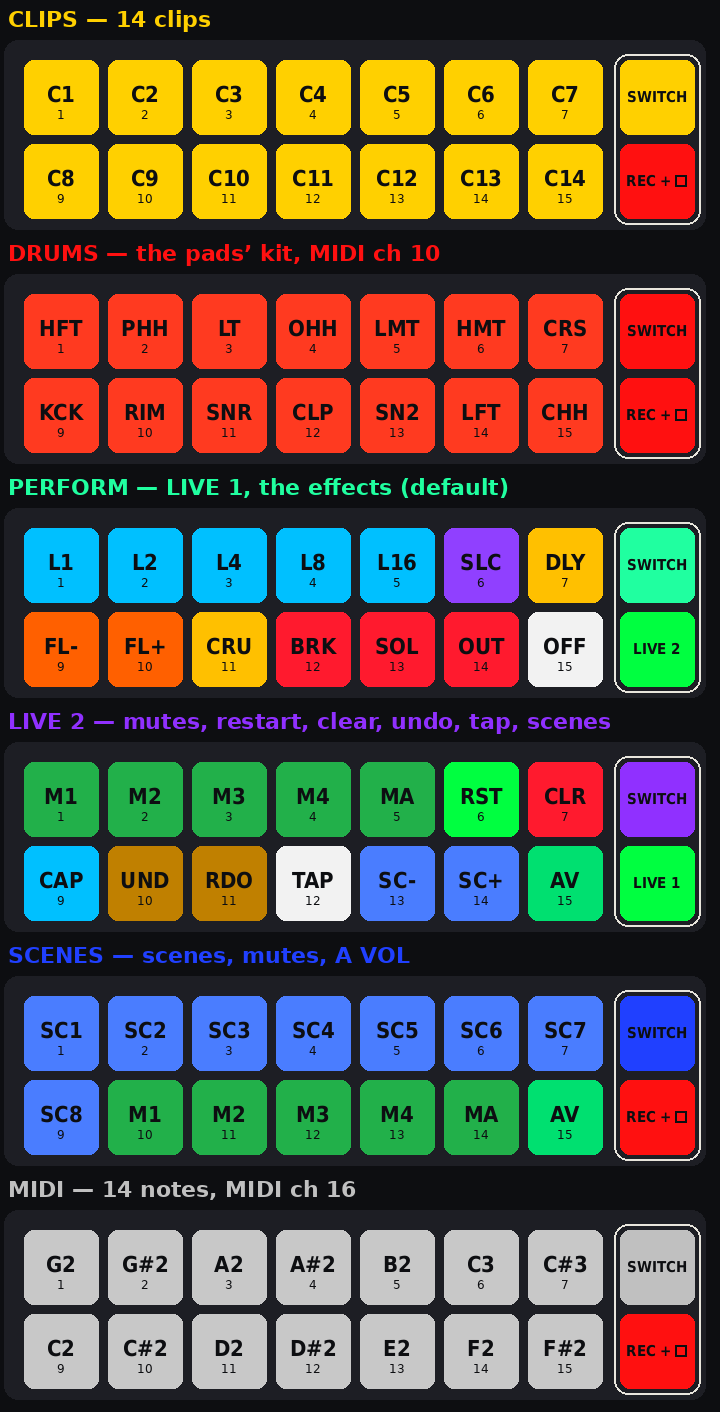
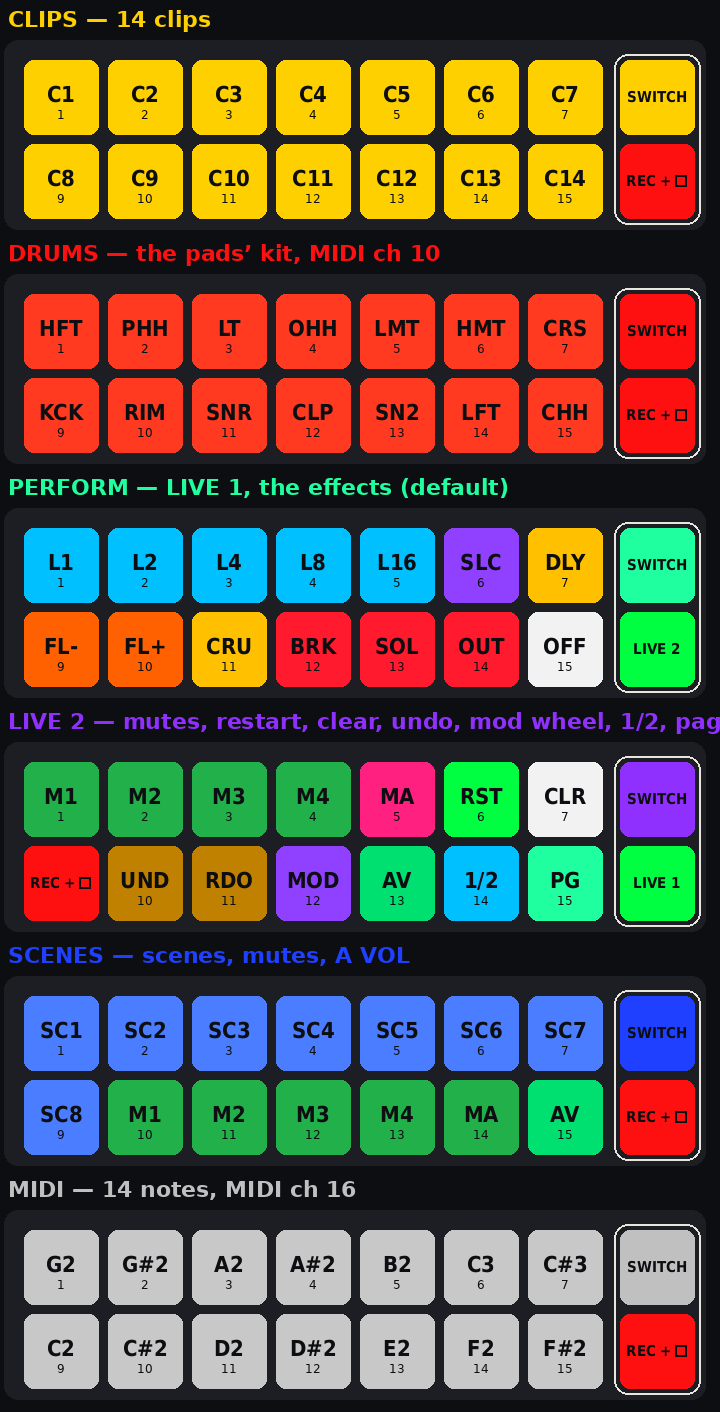
LIVE 2: MOD wheel job, loop 1/2, next page; new colours; map shown after a mode change (CORE c84035f)
Claude-Session: https://claude.ai/code/session_01N9f4HJn3ZZ4mEGDi7YNfQW

Changed region(s): [[0.3667, 0.4986, 1.0, 0.6544], [0.0306, 0.5921, 0.1528, 0.6544]]

diff --git a/targets/smk37/smk37_app.c b/targets/smk37/smk37_app.c
@@ -419,6 +419,7 @@ static struct {
     uint8_t mode_map;                           /* MODE held long: its map shown, letting it go changes nothing */
     uint32_t mode_down_at;                      /* when MODE was pressed */
     uint32_t wave_t0;                           /* the light going round the pads: when it started (top left) */
+    uint32_t map_until;                         /* a mode just taken: its pads' map shown until then (or a touch) */
     uint8_t wave_on;                            /* it is going round (the logo, the help pages) */
     uint32_t pads_quiet_until;                  /* after it: the pads stay off and do nothing until then */
     uint16_t pad_ignored;                       /* pads pressed then: their release does nothing either */
@@ -634,6 +635,15 @@ static void rec_say(int i)                      /* what REC + this pad does: "SA
     clip_say(smk.pad_mode == PADS_SCENES ? "SAVE" : (clips[i].used ? "REPLACE" : "CLIP"), i, "");
 }
 
+/* a pad mode just taken: its map on the screen a few seconds, until anything is touched (smk_input_event) */
+#define MAP_SHOW_MS 4000u
+static void pads_map_show(void)
+{
+    smk.map_until = fm1_millis() + MAP_SHOW_MS;
+    ui.msg_until = smk.map_until;
+    ui.redraw = 1;
+}
+
 /* the set-up pads: MODE (a tap: the next mode; held: the pads' map) and REC (held + a pad: record / store / choose,
  * at once; CLIPS: a clip pad held, then REC: LOOP) */
 static void setup_pad(uint32_t pad, int down)
@@ -650,9 +660,10 @@ static void setup_pad(uint32_t pad, int down)
             ui.redraw = 1;
             return;
         }
-        static const char *const NAME[PAD_MODES] = { "CLIPS", "DRUMS", "LIVE 1", "LIVE 2", "SCENES", "MIDI CH 16" };
+        static const char *const NAME[PAD_MODES] = { "CLIPS", "DRUMS", "LIVE 1 LOOP", "LIVE 2 MUTE", "SCENES", "MIDI CH 16" };
         smk.pad_mode = (uint8_t)((smk.pad_mode + 1u) % PAD_MODES);
         app_say("PADS", NAME[smk.pad_mode]);
+        pads_map_show();
         return;
     }
     if (down) {                                 /* REC */
@@ -678,9 +689,10 @@ static void setup_pad(uint32_t pad, int down)
             }
         }
         if (LIVE_MODE(smk.pad_mode)) {          /* LIVE 1 / LIVE 2: REC is their switch (nothing to record there) */
-            static const char *const LIVE_NAME[2] = { "LIVE 1", "LIVE 2" };
+            static const char *const LIVE_NAME[2] = { "LIVE 1 LOOP", "LIVE 2 MUTE" };
             smk.pad_mode = smk.pad_mode == PADS_PERFORM ? PADS_LIVE2 : PADS_PERFORM;
             app_say("PADS", LIVE_NAME[smk.pad_mode == PADS_LIVE2]);
+            pads_map_show();
             smk.rec_target = -2;
             return;
         }
@@ -704,20 +716,52 @@ static void setup_pad(uint32_t pad, int down)
 }
 
 /* LIVE 2: what is needed at once while playing, one pad each. Top: MUTE 1-4 (the tracks' own mutes, as SELECT + key),
- * MUTE ALL, RESTART, CLEAR TRACK. Bottom: LOOP REC (as EDIT tapped), UNDO, REDO, TAP tempo, the previous / next
- * stored scene, A VOL. REC (bottom right) goes back to LIVE 1. */
-enum { L2_M1, L2_M2, L2_M3, L2_M4, L2_MUTE_ALL, L2_RESTART, L2_CLEAR, L2_CAPTURE, L2_UNDO, L2_REDO, L2_TAP,
-       L2_SCENE_PREV, L2_SCENE_NEXT, L2_AVOL };
+ * MUTE ALL, RESTART, CLEAR TRACK. Bottom: LOOP REC (as EDIT tapped), UNDO, REDO, MOD (what the mod wheel does: MORPH,
+ * FILTER, DELAY, CRUSH, DRIVE, PAN of the selected track, in turn), A VOL, 1/2 (the selected track's loop half as
+ * long: its first half again; ENV undoes it), PAGE (the knobs' next page, as FX tapped, in that page's colour). REC
+ * (bottom right) goes back to LIVE 1. */
+enum { L2_M1, L2_M2, L2_M3, L2_M4, L2_MUTE_ALL, L2_RESTART, L2_CLEAR, L2_CAPTURE, L2_UNDO, L2_REDO, L2_MOD,
+       L2_AVOL, L2_HALVE, L2_PAGE };
 
-static int live2_scene(int dir)                 /* the next stored scene from the last one, -1 none */
+/* MOD: what the mod wheel does, in turn (the CONTROL MAP's mod wheel slot); its pad shows it in its colour */
+static const struct { uint8_t target; uint32_t rgb; const char *name; } MOD_WHEEL[] = {
+    { MAP_MORPH, 0x9030FF, "MORPH" }, { MAP_FILTER, 0xFF6000, "FILTER" }, { MAP_DELAY, 0xFFC000, "DELAY" },
+    { MAP_CRUSH, 0xFF2080, "CRUSH" }, { MAP_DRIVE, 0xFF1010, "DRIVE" }, { MAP_PAN, 0x00C0FF, "PAN" },
+};
+#define MOD_WHEEL_N (sizeof MOD_WHEEL / sizeof MOD_WHEEL[0])
+
+static int mod_wheel_now(void)                  /* its place in MOD_WHEEL, -1: something else (set in MAP CONTROL) */
 {
-    int from = mirror.scene_last >= 0 ? mirror.scene_last : (dir > 0 ? -1 : 0);
-    for (int n = 1; n <= 8; n++) {
-        int s = ((from + dir * n) % 8 + 8) % 8;
-        if (live.scene[s].valid)
-            return s;
-    }
+    for (uint32_t k = 0; k < MOD_WHEEL_N; k++)
+        if (cmap.target[MAP_MOD] == MOD_WHEEL[k].target)
+            return (int)k;
     return -1;
+}
+
+static void mod_wheel_next(void)
+{
+    uint32_t k = (uint32_t)(mod_wheel_now() + 1) % MOD_WHEEL_N;
+    map_retarget(MAP_MOD, MOD_WHEEL[k].target);
+    mark_dirty();
+    app_say("MOD WHEEL", MOD_WHEEL[k].name);
+}
+
+/* the knob pages' colours, as the screen shows them (ui_draw.c PAGE_COLOUR) */
+static const uint32_t PAGE_RGB[PAGE_COUNT] = { 0xC0C0C0, 0x00C0FF, 0x20FFA0, 0xFF2080, 0x9030FF, 0xFF1010, 0xFF6000 };
+
+static void live2_halve(void)
+{
+    uint32_t len = live.track[mirror.track].pat.length;
+    if (ui.on_a || !live.track[mirror.track].pat.count) {
+        app_say("1/2", ui.on_a ? "PICK A TRACK" : "NO LOOP");
+        return;
+    }
+    if (len / 2u < OLS_PPQN) {
+        app_say("1/2", "ONE BEAT ALREADY");
+        return;
+    }
+    send_live(LIVE_LENGTH, 0, (uint16_t)(len / 2u), 0.0f, mirror.track);
+    say_undo("LOOP 1/2");
 }
 
 static void live2_pad(int i)
@@ -749,51 +793,58 @@ static void live2_pad(int i)
     case L2_REDO:
         button_pressed(B_LFO, ui.buttons);
         break;
-    case L2_TAP:
-        send_live(LIVE_TAP, 0, 0, 0.0f, 0);
-        app_say("TAP", "TEMPO");
+    case L2_MOD:
+        mod_wheel_next();
         break;
-    case L2_SCENE_PREV: case L2_SCENE_NEXT: {
-        int s = live2_scene(i == L2_SCENE_NEXT ? 1 : -1);
-        if (s < 0)
-            app_say("SCENES", "NONE STORED");
-        else
-            scene_key(s);
+    case L2_HALVE:
+        live2_halve();
         break;
-    }
-    default:
+    case L2_PAGE:
+        ui.pages_used = 0;
+        pages_released();                       /* as FX tapped: the knobs' next page */
+        app_say("PAGE", PAGE_NAME[set.page]);
+        break;
+    case L2_AVOL:
         avol_key();
+        break;
+    default:
         break;
     }
 }
 
+static uint32_t dim(uint32_t rgb, uint32_t level);
 static uint32_t live2_colour(int i, int held)
 {
-    if (i <= L2_M4)                             /* the mutes: as in SCENES */
-        return live.track[i].mute ? 0x400000 : (i == mirror.track && !ui.on_a ? 0x8060FF : 0x08A008);
+    if (i <= L2_M4)                             /* the mutes: green playing (the selected one brighter), red out */
+        return live.track[i].mute ? 0x400000 : (i == mirror.track && !ui.on_a ? 0x20E020 : 0x087008);
     switch (i) {
     case L2_MUTE_ALL: {
         int all_out = 1;
         for (uint32_t k = 0; k < TRACKS; k++)
             all_out &= live.track[k].mute != 0;
-        return all_out ? ((fm1_millis() / 125u) & 1u ? 0xFF0010 : 0x100000) : 0x200040;
+        return all_out ? ((fm1_millis() / 125u) & 1u ? 0xFF0010 : 0x100000) : (held ? 0xFF2080 : 0x401020);   /* pink */
     }
     case L2_RESTART:
         return held ? 0x00FF40 : 0x00300C;
-    case L2_CLEAR:
-        return held ? 0xFF0000 : 0x300000;
-    case L2_CAPTURE:                            /* LOOP REC armed / taking: blinks fast */
-        return ui.cap_armed ? ((fm1_millis() / 125u) & 1u ? 0x00C0FF : 0x001018) : (held ? 0x00C0FF : 0x00141C);
+    case L2_CLEAR:                              /* white */
+        return held ? 0xFFFFFF : 0x303030;
+    case L2_CAPTURE:                            /* LOOP REC: red; armed / taking: blinking red; held: mint */
+        if (held)
+            return 0x20FFA0;
+        return ui.cap_armed ? ((fm1_millis() / 125u) & 1u ? 0xFF0000 : 0x200000) : 0x300000;
     case L2_UNDO:
         return ols_live_can_undo_track(&live, mirror.track) ? 0xC08000 : 0x100800;
     case L2_REDO:
         return ols_live_can_redo_track(&live, mirror.track) ? 0xC08000 : 0x100800;
-    case L2_TAP: {                              /* the beat */
-        uint32_t t = live.clock.running ? live.clock.tick : live.clock.free_tick;
-        return held ? 0xFFFFFF : (t % OLS_PPQN < OLS_PPQN / 8u ? 0x808080 : 0x101010);
+    case L2_MOD: {                              /* in the colour of what the mod wheel does */
+        int k = mod_wheel_now();
+        uint32_t c = k < 0 ? 0x808080 : MOD_WHEEL[k].rgb;
+        return held ? c : dim(c, 70u);
     }
-    case L2_SCENE_PREV: case L2_SCENE_NEXT:
-        return live2_scene(1) < 0 ? 0x020210 : (held ? 0x60A0FF : 0x0828A0);
+    case L2_HALVE:                              /* cyan, as the loops */
+        return held ? 0x00C0FF : (live.track[mirror.track].pat.count && !ui.on_a ? 0x003040 : 0x000810);
+    case L2_PAGE:                               /* the knobs' page now, in its colour */
+        return held ? PAGE_RGB[set.page % PAGE_COUNT] : dim(PAGE_RGB[set.page % PAGE_COUNT], 70u);
     default:
         return avol.on ? 0x00FF60 : 0x002810;   /* A VOL: lit green while it runs */
     }
@@ -1179,6 +1230,11 @@ static void button_event(uint32_t id, int down)
 
 void smk_input_event(unsigned kind, unsigned id, int value)
 {
+    if (smk.map_until && value > 0 && kind != SMK_PRESSURE && kind != SMK_FADER) {
+        smk.map_until = 0;                      /* the map of a mode just taken: a touch ends it */
+        ui.msg_until = fm1_millis();
+        ui.redraw = 1;
+    }
     switch (kind) {
     case SMK_KEY:
         key_event(id, value);
@@ -1286,9 +1342,9 @@ static const struct { char name[4]; uint8_t type; } PAD_MAP[PAD_MODES][SMK_PADS]
     },
     {
         { "M1", 8 }, { "M2", 8 }, { "M3", 8 }, { "M4", 8 },
-        { "MA", 8 }, { "RST", 14 }, { "CLR", 2 }, { "SW", 10 },
-        { "CAP", 0 }, { "UND", 15 }, { "RDO", 15 }, { "TAP", 3 },
-        { "SC-", 7 }, { "SC+", 7 }, { "AV", 9 }, { "LV1", 14 },
+        { "MA", 16 }, { "RST", 14 }, { "CLR", 3 }, { "SW", 10 },
+        { "CAP", 11 }, { "UND", 15 }, { "RDO", 15 }, { "MOD", 17 },
+        { "AV", 9 }, { "1/2", 0 }, { "PG", 18 }, { "LV1", 14 },
     },
     {
         { "SC1", 7 }, { "SC2", 7 }, { "SC3", 7 }, { "SC4", 7 },
@@ -1309,19 +1365,24 @@ static const struct { char name[4]; uint8_t type; } PAD_MAP[PAD_MODES][SMK_PADS]
  * for a layer button), each in its colour with its short name, MODE and REC framed on the right */
 static int smk_pad_map(void)
 {
-    if (!((smk.pad_down >> PAD_MODE) & 1u) || smk.mode_used || fm1_millis() - smk.mode_down_at < MODE_MAP_MS)
+    int shown = smk.map_until && (int32_t)(fm1_millis() - smk.map_until) < 0;
+    if (!shown && smk.map_until) {
+        smk.map_until = 0;
+        ui.redraw = 1;
+    }
+    if (!shown && (!((smk.pad_down >> PAD_MODE) & 1u) || smk.mode_used || fm1_millis() - smk.mode_down_at < MODE_MAP_MS))
         return 0;
-    static const uint32_t TYPE_RGB[16] = { 0x00C0FF, 0xFF6000, 0xFF1A2E, 0xF2F2F2, 0xFFD000, 0xFF3A20, 0xC8C8C8,
+    static const uint32_t TYPE_RGB[18] = { 0x00C0FF, 0xFF6000, 0xFF1A2E, 0xF2F2F2, 0xFFD000, 0xFF3A20, 0xC8C8C8,
                                            0x4A7DFF, 0x22B04A, 0x00E070, 0, 0xFF1010, 0x9040FF, 0xFFC000, 0x00FF40,
-                                           0xC08000 };
+                                           0xC08000, 0xFF2080, 0 };   /* ... pink (MUTE ALL), 17: the mod wheel's */
                                                 /* loop, filter, mute, off, clip, drum, MIDI, scene, track, A VOL,
                                                  * (MODE), REC, slicer, sound effect, LIVE switch / restart, undo */
-    if (!smk.mode_map) {
-        static const char *const NAME[PAD_MODES] = { "CLIPS", "DRUMS", "LIVE 1", "LIVE 2", "SCENES", "MIDI CH 16" };
+    if (!smk.mode_map && !shown) {
+        static const char *const NAME[PAD_MODES] = { "CLIPS", "DRUMS", "LIVE 1 LOOP", "LIVE 2 MUTE", "SCENES", "MIDI CH 16" };
         app_say("PADS", NAME[smk.pad_mode]);
         ui.msg_until = plat_ms() + 60000u;      /* (while MODE is held) */
     }
-    smk.mode_map = 1;
+    smk.mode_map = (uint8_t)!shown || ((smk.pad_down >> PAD_MODE) & 1u);
     const int32_t pw = 25, ph = 24, gap = 3, side = 5;
     const int32_t x0 = (240 - (8 * pw + 7 * gap + side)) / 2, y0 = (SCOPE_H - (2 * ph + gap)) / 2;
     cv_begin(240, SCOPE_H, C_BLACK);
@@ -1329,7 +1390,8 @@ static int smk_pad_map(void)
         int32_t col = (int32_t)(p % 8u), row = (int32_t)(p / 8u);
         int32_t x = x0 + col * (pw + gap) + (col == 7 ? side : 0), y = y0 + row * (ph + gap);
         uint8_t t = PAD_MAP[smk.pad_mode][p].type;
-        uint32_t c = t == 10u ? MODE_COLOUR[smk.pad_mode] : (t < 16u ? TYPE_RGB[t] : 0x24252Cu);
+        uint32_t c = t == 10u ? MODE_COLOUR[smk.pad_mode] : (t == 17u ? live2_colour(L2_MOD, 1) : (t == 18u ? live2_colour(L2_PAGE, 1)
+                   : (t < 18u ? TYPE_RGB[t] : 0x24252Cu)));
         cv_rect(x, y, pw, ph, RGB((c >> 16) & 255u, (c >> 8) & 255u, c & 255u));
         const char *n = PAD_MAP[smk.pad_mode][p].name;
         cv_text(x + (pw - text_w(&FONT_XS, n)) / 2, y + (ph - (int32_t)FONT_XS.h) / 2, &FONT_XS, n, C_BLACK);

diff --git a/targets/smk37/tests/host_test.c b/targets/smk37/tests/host_test.c
@@ -338,6 +338,12 @@ int main(void)
      * right, green) switches LIVE 1 <-> LIVE 2 */
     tap(SMK_BUTTON, SMK_B_PAD_STEP);
     CHECK(smk.pad_mode == PADS_LIVE2 && pad_rgb[PAD_MODE] == dim(0x9030FF, 110u), "PAD/STEP: LIVE 2, violet");
+    CHECK(smk.map_until != 0, "a mode taken: its pads' map shows on the screen");
+    {
+        uint8_t page = set.page;
+        tap(SMK_PAD, 14);                               /* PAGE: the knobs' next page, as FX tapped */
+        CHECK(set.page != page, "LIVE 2 PAGE: the knobs' next page");
+    }
     CHECK(pad_rgb[PAD_REC] == 0x00601A, "REC is the LIVE switch, green");
     tap(SMK_PAD, 0);
     run_ms(50);
@@ -345,6 +351,12 @@ int main(void)
     tap(SMK_PAD, 0);
     run_ms(50);
     CHECK(!live.track[0].mute, "...and back");
+    {
+        uint8_t was = cmap.target[MAP_MOD];
+        tap(SMK_PAD, 11);                               /* MOD: what the mod wheel does, in turn */
+        CHECK(cmap.target[MAP_MOD] != was && mod_wheel_now() >= 0, "LIVE 2 MOD: the mod wheel does the next thing");
+        CHECK(smk.map_until == 0, "...and a touch put the map away");
+    }
     tap(SMK_PAD, PAD_REC);
     CHECK(smk.pad_mode == PADS_PERFORM, "REC: back to LIVE 1");
     tap(SMK_PAD, PAD_REC);

diff --git a/docs/_FR/02-le-smk37.md b/docs/_FR/02-le-smk37.md
@@ -58,10 +58,10 @@ Si plus rien ne répond, l'atelier web de M-VAVE sait réinstaller un firmware d
 |---|---|
 | **37 touches** (Do3 à Do6) | jouent la piste sélectionnée, avec la vélocité ; OCT− / OCT+ décalent la ligne sélectionnée d'une octave (T1..T4 et A chacune la leur ; un son USER ramène son octave) |
 | touches blanches + un bouton de couche tenu | les 16 « touches de couche » du FM-1 (GLO scènes, ARP Creative, SELECT pistes, SEQ effets, SAVE sons) : 1re touche blanche = 1. Sur une piste, ARP / SEQ / GLO + touche blanche affiche le geste : relâcher ARP / SEQ / GLO d'abord l'applique (menthe), la touche d'abord l'annule |
-| **16 pads** : 2 pads de réglage à droite, 14 pads de jeu (pendant le logo et l'aide : une lumière fait le tour dans le sens horaire, un tour en 1,6 s, suivie d'une traîne qui s'éteint sur les trois pads derrière, sa couleur glissant sur la roue : rouge, orange, jaune, menthe, bleu, violet ; elle part du pad en haut à gauche ; un pad appuyé à ce moment arrête le logo et l'aide, sans rien faire d'autre ; puis tous les pads restent éteints une demi-seconde avant leur mode) | en haut à droite **MODE** : tenu seul un instant, la **carte des pads** s'affiche à l'écran (comme le clavier pour un bouton de couche) ; une tape fait le tour **CLIPS** (jaune) → **DRUMS** (rouge) → **LIVE 1** (PERFORM, menthe, la couleur du live) → **LIVE 2** (violet) → **SCÈNES** (bleu) → **MIDI** (blanc) ; le pad prend la couleur du mode. En bas à droite **REC** : REC + un pad agit **tout de suite** (un clip armé, une scène sauvée, un kit choisi) ; en LIVE 1 et LIVE 2 c'est leur **bascule** à la place (verte) : LIVE 1 ↔ LIVE 2. **PAD/STEP** fait aussi le tour des modes (voyant éteint : PERFORM) |
+| **16 pads** : 2 pads de réglage à droite, 14 pads de jeu (pendant le logo et l'aide : une lumière fait le tour dans le sens horaire, un tour en 1,6 s, suivie d'une traîne qui s'éteint sur les trois pads derrière, sa couleur glissant sur la roue : rouge, orange, jaune, menthe, bleu, violet ; elle part du pad en haut à gauche ; un pad appuyé à ce moment arrête le logo et l'aide, sans rien faire d'autre ; puis tous les pads restent éteints une demi-seconde avant leur mode) | en haut à droite **MODE** : tenu seul un instant, la **carte des pads** s'affiche à l'écran (comme le clavier pour un bouton de couche) ; une tape fait le tour **CLIPS** (jaune) → **DRUMS** (rouge) → **LIVE 1** (PERFORM, menthe, la couleur du live) → **LIVE 2** (violet) → **SCÈNES** (bleu) → **MIDI** (blanc) ; le pad prend la couleur du mode ; le titre le dit (« LIVE 1 LOOP », « LIVE 2 MUTE ») et la carte des pads reste 4 s à l'écran, ou jusqu'à ce qu'on touche quelque chose. En bas à droite **REC** : REC + un pad agit **tout de suite** (un clip armé, une scène sauvée, un kit choisi) ; en LIVE 1 et LIVE 2 c'est leur **bascule** à la place (verte) : LIVE 1 ↔ LIVE 2. **PAD/STEP** fait aussi le tour des modes (voyant éteint : PERFORM) |
 | pads en **CLIPS** | un clip = une phrase jouée sur la ligne choisie (une piste ou A), avec son son. **REC + pad** l'arme tout de suite (le pad clignote rouge toutes les 1/4 s, la ligne passe vert sombre à l'écran) ; la **première note** lance la prise (vert vif qui remplit la ligne, toute la largeur = 4 mesures, le maximum) ; **son pad ou REC** la termine (un autre pad, MODE ou un bouton aussi), son propre pad la termine et la joue. Longueur arrondie au temps, au plus **4 mesures / 48 notes**, 14 clips. **Une tape = SINGLE** : une fois, tout de suite, depuis sa première note. **Le pad encore l'arrête** (une fois ou en boucle). **Le pad tenu, puis REC** = **LOOP** : verrouillé, en boucle, en mesure (clignote vert / violet, une demi-seconde chacun). **REC + un pad plein** : REPLACE (l'ancien reste jusqu'à la première note). **SHIFT + pad** : effacé. Couleurs : éteint = vide, rouge = batterie, vert = acid, rose = son USER, bleu = les autres ; vif = en lecture. Les clips jouent le son actuel de la ligne, ne s'enregistrent pas dans la boucle et ne sont pas sauvés (hors tension : perdus) |
 | pads en **DRUMS** | le **kit de batterie propre aux pads** (pas une piste) : 14 sons, Do2 (grosse caisse) en bas à gauche, comme les boîtes à rythmes ; sortie sur le **canal MIDI 10**. **REC tenu** : les cinq kits sur les cinq premiers pads (tous, même les cachés ; vif = celui des pads) ; REC + pad = ce kit, tout de suite, gardé (SAVE). La pression = un **roulement** calé sur la grille, plus rapide en appuyant plus fort : 1/8, puis 1/16, puis 1/32, un cran toutes les 1/4 s au plus (la pression des pads monte vite : il passait direct à 1/32) ; en relâchant, il ralentit ou s'arrête tout de suite. Pas enregistré dans les boucles |
-| pads en **LIVE 2** (violet) | ce qu'il faut lancer vite en jouant, un pad chacun. En haut : **MUTE 1–4** (les mutes des pistes, comme SELECT + touche : même état), **MUTE ALL**, **RESTART** (toutes les pistes au début), **CLEAR TRACK** (la piste choisie ; ENV l'annule). En bas : **LOOP REC** (comme EDIT tapé ; clignote quand il attend), **UNDO**, **REDO** (ambre quand il y a quelque chose), **TAP** tempo (clignote sur le temps), **SCÈNE −** / **SCÈNE +** (la scène enregistrée précédente / suivante, à la mesure suivante), **A VOL**. Le pad en bas à droite (vert) revient à LIVE 1 |
+| pads en **LIVE 2** (violet) | ce qu'il faut lancer vite en jouant, un pad chacun. En haut : **MUTE 1–4** (les mutes des pistes, comme SELECT + touche : même état), **MUTE ALL**, **RESTART** (toutes les pistes au début), **CLEAR TRACK** (la piste choisie ; ENV l'annule). En bas : **LOOP REC** (comme EDIT tapé ; rouge, rouge clignotant quand il attend, menthe tenu), **UNDO**, **REDO** (ambre quand il y a quelque chose), **MOD** (ce que fait la molette mod, à tour de rôle : MORPH, FILTER, DELAY, CRUSH, DRIVE, PAN de la piste choisie ; le pad dans sa couleur), **A VOL**, **1/2** (la boucle de la piste choisie deux fois plus courte : sa première moitié ; ENV l'annule), **PAGE** (page de boutons suivante, comme FX tapé ; le pad dans la couleur de la page). Le pad en bas à droite (vert) revient à LIVE 1. Couleurs en haut : mutes verts (rouges coupés), MUTE ALL rose, RESTART vert, CLEAR TRACK blanc |
 | pads en **LIVE 1** (PERFORM, par défaut) | 14 effets de jeu groupés par couleur : en haut le temps, boucles 1 mesure à 1/16 (cyan ; une boucle en cours clignote à sa propre longueur, OCT− / OCT+ la changent), SLICER (violet ; la piste choisie, OCT− / OCT+ sa longueur), DELAY (jaune) ; en bas FILTRE fermé / ouvert (orange), CRUSH (jaune), BREAK, SOLO, TOUT COUPÉ (rouge), TOUT ARRÊTER (blanc). DRIVE et DRUMS ONLY restent sur les touches ; LOOP 1/32 par OCT+ depuis 1/16. Tenir = tant que tenu ; tape courte = verrouillé. **Pression** sur un filtre / delay / crush tenu : effleurer = 40 %, appuyer fort = 100 % |
 | pads en **SCÈNES** | rangée du haut + le pad en bas à gauche : scènes 1–8 (à la mesure suivante en lecture ; vif : la dernière, pâle : enregistrée, sombre : vide) ; **REC + pad** (ou SHIFT + pad) la SAUVE (rose) ; puis mute / unmute des pistes 1–4, les quatre (rouge qui clignote vite quand tout est coupé), **A VOL** (vert qui respire pendant qu'il tourne) |
 | pads en **MIDI** | 14 notes depuis Do2 sur le **canal MIDI 16** seulement (USB et prise MIDI OUT), aucun son interne : pour une boîte à rythmes ou un sampler |

diff --git a/docs/_EN/02-the-smk37.md b/docs/_EN/02-the-smk37.md
@@ -56,10 +56,10 @@ answers any more, M-VAVE's web workbench can reinstall a firmware from update mo
 |---|---|
 | **37 keys** (C3 to C6) | play the selected track, with velocity; OCT− / OCT+ shift the selected line an octave (T1..T4 and A each their own; a USER sound brings back its octave) |
 | white keys + a layer button held | the FM-1's 16 "layer keys" (GLO scenes, ARP Creative, SELECT tracks, SEQ effects, SAVE sounds): 1st white key = 1. On a track, ARP / SEQ / GLO + white key names the gesture: let ARP / SEQ / GLO go first to apply it (mint), the key first to give it up |
-| **16 pads**: 2 set-up pads on the right, 14 playing pads (during the logo and the help: a light goes round clockwise, one lap in 1.6 s, with a trail fading on the three pads behind it, its colour flowing round the wheel: red, orange, yellow, mint, blue, violet; it starts on the top left pad; a pad pressed then ends the logo and the help and does nothing else; then every pad stays off half a second before its mode) | top right **MODE**: held alone a moment, the **pads' map** shows on the screen (as the keyboard does for a layer button); a tap goes round **CLIPS** (yellow) → **DRUMS** (red) → **LIVE 1** (PERFORM, mint, the live colour) → **LIVE 2** (violet) → **SCENES** (blue) → **MIDI** (white); the pad shows the mode's colour. Bottom right **REC**: REC + a pad acts **at once** (a clip armed, a scene stored, a kit chosen); in LIVE 1 and LIVE 2 it is their **switch** instead (green): LIVE 1 ↔ LIVE 2. **PAD/STEP** goes round the modes too (LED off: PERFORM) |
+| **16 pads**: 2 set-up pads on the right, 14 playing pads (during the logo and the help: a light goes round clockwise, one lap in 1.6 s, with a trail fading on the three pads behind it, its colour flowing round the wheel: red, orange, yellow, mint, blue, violet; it starts on the top left pad; a pad pressed then ends the logo and the help and does nothing else; then every pad stays off half a second before its mode) | top right **MODE**: held alone a moment, the **pads' map** shows on the screen (as the keyboard does for a layer button); a tap goes round **CLIPS** (yellow) → **DRUMS** (red) → **LIVE 1** (PERFORM, mint, the live colour) → **LIVE 2** (violet) → **SCENES** (blue) → **MIDI** (white); the pad shows the mode's colour; the title says it ("LIVE 1 LOOP", "LIVE 2 MUTE") and the pads' map stays on the screen 4 s, or until anything is touched. Bottom right **REC**: REC + a pad acts **at once** (a clip armed, a scene stored, a kit chosen); in LIVE 1 and LIVE 2 it is their **switch** instead (green): LIVE 1 ↔ LIVE 2. **PAD/STEP** goes round the modes too (LED off: PERFORM) |
 | pads in **CLIPS** | a clip = a phrase played on the selected line (a track or A), with its sound. **REC + pad** arms it at once (pad blinking red every 1/4 s, the line goes dark green on screen); the **first note** starts the take (bright green filling the line, the full width = 4 bars, the longest); **its pad or REC** ends it (any other pad, MODE or a button too), its own pad ends it and plays it. Length rounded to the beat, at most **4 bars / 48 notes**, 14 clips. **A tap = SINGLE**: once, now, from its first note. **The pad again stops it** (once or looping). **The pad held, then REC** = **LOOP**: latched, looping, in time (blinking green / violet, half a second each). **REC + a full pad**: REPLACE (the old one stays until the first note). **SHIFT + pad**: deleted. Colours: off = empty, red = drums, green = acid, pink = USER sound, blue = the others; bright = playing. Clips play on the line's sound as it is now, are not recorded in the loop, and are not saved (power off: gone) |
 | pads in **DRUMS** | the pads' **own drum kit** (not a track): 14 sounds, C2 (kick) on the bottom left, as drum machines; out on **MIDI channel 10**. **REC held**: the five kits on the first five pads (all, hidden ones too; bright = the pads' one); REC + pad = that kit, at once, kept (SAVE). Pressure = a **roll** on the beat grid, faster the harder: 1/8, then 1/16, then 1/32, a step every 1/4 s at most (the pads' pressure rises fast: it went straight to 1/32); eased off, it slows or stops at once. Not recorded in the loops |
-| pads in **LIVE 2** (violet) | what must start fast while playing, one pad each. Top: **MUTE 1–4** (the tracks' own mutes, as SELECT + key: same state), **MUTE ALL**, **RESTART** (every track from its start), **CLEAR TRACK** (the selected track; ENV undoes it). Bottom: **LOOP REC** (as EDIT tapped; blinks while armed), **UNDO**, **REDO** (amber when there is something), **TAP** tempo (blinks on the beat), **SCENE −** / **SCENE +** (the previous / next stored scene, on the next bar), **A VOL**. The bottom right pad (green) goes back to LIVE 1 |
+| pads in **LIVE 2** (violet) | what must start fast while playing, one pad each. Top: **MUTE 1–4** (the tracks' own mutes, as SELECT + key: same state), **MUTE ALL**, **RESTART** (every track from its start), **CLEAR TRACK** (the selected track; ENV undoes it). Bottom: **LOOP REC** (as EDIT tapped; red, blinking red while armed, mint held), **UNDO**, **REDO** (amber when there is something), **MOD** (what the mod wheel does, in turn: MORPH, FILTER, DELAY, CRUSH, DRIVE, PAN of the selected track; the pad in its colour), **A VOL**, **1/2** (the selected track's loop half as long: its first half again; ENV undoes it), **PAGE** (the knobs' next page, as FX tapped; the pad in that page's colour). The bottom right pad (green) goes back to LIVE 1. Colours on top: mutes green (red when out), MUTE ALL pink, RESTART green, CLEAR TRACK white |
 | pads in **LIVE 1** (PERFORM, the default) | 14 perform effects grouped by colour: top row the time ones, loops 1 bar to 1/16 (cyan; a running loop blinks at its own length, OCT− / OCT+ change it), SLICER (violet; the selected track, OCT− / OCT+ its length), DELAY (yellow); bottom row FILTER shut / open (orange), CRUSH (yellow), BREAK, SOLO, ALL OUT (red), ALL OFF (white). DRIVE and DRUMS ONLY stay on the keys; LOOP 1/32 by OCT+ from 1/16. Hold = while held; a short tap = latched. **Pressure** on a held filter / delay / crush: a light touch = 40 %, a full press = 100 % |
 | pads in **SCENES** | top row + the bottom left: scenes 1–8 (on the next bar when playing; bright: the last one, dim: stored, dark: empty); **REC + pad** (or SHIFT + pad) SAVES (pink); then mute / unmute tracks 1–4, all four (fast red blink while all are out), **A VOL** (green swell while it runs) |
 | pads in **MIDI** | 14 notes from C2 on **MIDI channel 16** only (USB and the MIDI OUT jack), no sound inside: for a drum machine or a sampler |

diff --git a/docs/_FR/22-reperes-ecran-et-menus.md b/docs/_FR/22-reperes-ecran-et-menus.md
@@ -263,11 +263,11 @@ LIVE 1 : mode par défaut, en menthe (la couleur du live). Les effets de SEQ sur
 
 ### LIVE 2
 
-En violet, juste après LIVE 1 : ce qu'il faut lancer vite en jouant. En haut les mutes des pistes 1 à 4 (les mêmes que SELECT + touche), MUTE ALL, RESTART, CLEAR TRACK ; en bas LOOP REC, UNDO, REDO, TAP tempo, scène précédente / suivante, A VOL. Le pad en bas à droite (vert) revient à LIVE 1.
+LIVE 2 MUTE, en violet, juste après LIVE 1 : ce qu'il faut lancer vite en jouant. En haut les mutes des pistes 1 à 4 (les mêmes que SELECT + touche), MUTE ALL, RESTART, CLEAR TRACK ; en bas LOOP REC, UNDO, REDO, MOD (ce que fait la molette mod), A VOL, 1/2 (boucle deux fois plus courte), PAGE (page de boutons suivante). Le pad en bas à droite (vert) revient à LIVE 1. À chaque changement de mode, la carte des pads reste 4 s à l'écran (ou jusqu'à une touche).
 
 ![LIVE 2](../img/pads-live2.png)
 
-**M1** Mute piste 1, **M2** Mute piste 2, **M3** Mute piste 3, **M4** Mute piste 4, **MA** Mute all, **RST** Restart : toutes les pistes au début, **CLR** Clear track : efface la piste choisie, **CAP** Loop rec (comme EDIT tapé), **UND** Undo, **RDO** Redo, **TAP** Tap tempo, **SC-** Scène enregistrée précédente, **SC+** Scène enregistrée suivante, **AV** A VOL.
+**M1** Mute piste 1, **M2** Mute piste 2, **M3** Mute piste 3, **M4** Mute piste 4, **MA** Mute all, **RST** Restart : toutes les pistes au début, **CLR** Clear track : efface la piste choisie, **UND** Undo, **RDO** Redo, **MOD** Ce que fait la molette mod, à tour de rôle : MORPH, FILTER, DELAY, CRUSH, DRIVE, PAN (sa couleur), **AV** A VOL, **1/2** La boucle de la piste deux fois plus courte (ENV annule), **PG** Page de boutons suivante, comme FX tapé (sa couleur).
 
 ### SCÈNES
 

diff --git a/docs/_FR/21-commandes-fm1-smk37.md b/docs/_FR/21-commandes-fm1-smk37.md
@@ -90,7 +90,7 @@ Noms des touches à l'écran (3 caractères au plus, 5x7 pixels, écrits de haut
 
 | SMK-37 | Rôle | Sur le FM-1 |
 |---|---|---|
-| 16 pads : pads de réglage MODE + REC, 14 pads de jeu | CLIPS (SINGLE / LOOP), DRUMS (leur propre kit, MIDI canal 10, roulements à la pression), LIVE 1 = PERFORM (14 effets), LIVE 2 (mutes 1–4, MUTE ALL, RESTART, CLEAR TRACK, LOOP REC, UNDO, REDO, TAP, scène − / +, A VOL ; REC bascule LIVE 1 ↔ 2), SCÈNES (scènes, mutes, MUTE ALL, A VOL), MIDI (canal 16) | PERFORM, SCÈNES, mutes, MUTE ALL, A VOL, et les gestes de LIVE 2 : pareil sur les touches et boutons (SEL, HOME, EDIT, ENV / LFO, SEL + PLAY). **Les CLIPS, les pads MIDI, les roulements, la disposition un-pad-un-geste de LIVE 2 et scène − / + n'ont pas d'équivalent FM-1** |
+| 16 pads : pads de réglage MODE + REC, 14 pads de jeu | CLIPS (SINGLE / LOOP), DRUMS (leur propre kit, MIDI canal 10, roulements à la pression), LIVE 1 = PERFORM (14 effets), LIVE 2 (mutes 1–4, MUTE ALL, RESTART, CLEAR TRACK, LOOP REC, UNDO, REDO, rôle de la molette MOD, A VOL, boucle 1/2, page de boutons suivante ; REC bascule LIVE 1 ↔ 2), SCÈNES (scènes, mutes, MUTE ALL, A VOL), MIDI (canal 16) | PERFORM, SCÈNES, mutes, MUTE ALL, A VOL, et les autres gestes de LIVE 2 : pareil sur les touches et boutons (SEL, HOME, EDIT, ENV / LFO, FX). **Les CLIPS, les pads MIDI, les roulements, la disposition un-pad-un-geste de LIVE 2, son MOD et son 1/2 n'ont pas d'équivalent FM-1** |
 | 4 faders | volumes, macros, emplacements USER (FADER BANK) | les boutons rotatifs (pages LIVE / MACRO, MAP CONTROL) |
 | molette de pitch, de modulation | BEND ou PAN, MORPH (réglables) | — |
 | pédale de sustain | tient les notes | — |

diff --git a/docs/_EN/22-screen-keyboard-and-menus.md b/docs/_EN/22-screen-keyboard-and-menus.md
@@ -263,11 +263,11 @@ LIVE 1: the default, in mint (the live colour). SEQ's effects on the pads, by co
 
 ### LIVE 2
 
-In violet, right after LIVE 1: what must start fast while playing. On top the mutes of tracks 1 to 4 (the same as SELECT + key), MUTE ALL, RESTART, CLEAR TRACK; below LOOP REC, UNDO, REDO, TAP tempo, previous / next stored scene, A VOL. The bottom right pad (green) goes back to LIVE 1.
+LIVE 2 MUTE, in violet, right after LIVE 1: what must start fast while playing. On top the mutes of tracks 1 to 4 (the same as SELECT + key), MUTE ALL, RESTART, CLEAR TRACK; below LOOP REC, UNDO, REDO, MOD (what the mod wheel does), A VOL, 1/2 (the loop half as long), PAGE (the knobs' next page). The bottom right pad (green) goes back to LIVE 1. At each change of mode the pads' map stays 4 s on the screen (or until a touch).
 
 ![LIVE 2](../img/pads-live2.png)
 
-**M1** Mute track 1, **M2** Mute track 2, **M3** Mute track 3, **M4** Mute track 4, **MA** Mute all, **RST** Restart: every track from its start, **CLR** Clear track: the selected track wiped, **CAP** Loop rec (as EDIT tapped), **UND** Undo, **RDO** Redo, **TAP** Tap tempo, **SC-** Previous stored scene, **SC+** Next stored scene, **AV** A VOL.
+**M1** Mute track 1, **M2** Mute track 2, **M3** Mute track 3, **M4** Mute track 4, **MA** Mute all, **RST** Restart: every track from its start, **CLR** Clear track: the selected track wiped, **UND** Undo, **RDO** Redo, **MOD** What the mod wheel does, in turn: MORPH, FILTER, DELAY, CRUSH, DRIVE, PAN (its colour), **AV** A VOL, **1/2** The track's loop half as long (ENV undoes it), **PG** The knobs' next page, as FX tapped (its colour).
 
 ### SCENES
 

diff --git a/docs/_EN/21-fm1-smk37-controls.md b/docs/_EN/21-fm1-smk37-controls.md
@@ -88,7 +88,7 @@ Key names on the screen (3 characters at most, 5x7 pixels, written top to bottom
 
 | SMK-37 | What | On the FM-1 |
 |---|---|---|
-| 16 pads: MODE + REC set-up pads, 14 playing pads | CLIPS (SINGLE / LOOP), DRUMS (their own kit, MIDI ch 10, rolls by pressure), LIVE 1 = PERFORM (14 effects), LIVE 2 (mutes 1–4, MUTE ALL, RESTART, CLEAR TRACK, LOOP REC, UNDO, REDO, TAP, scene − / +, A VOL; REC switches LIVE 1 ↔ 2), SCENES (scenes, mutes, MUTE ALL, A VOL), MIDI (channel 16) | PERFORM, SCENES, mutes, MUTE ALL, A VOL, and LIVE 2's gestures: the same on the keys and buttons (SEL, HOME, EDIT, ENV / LFO, SEL + PLAY). **CLIPS, the MIDI pads, the pad rolls, LIVE 2's one-pad layout and scene − / + have no FM-1 equivalent** |
+| 16 pads: MODE + REC set-up pads, 14 playing pads | CLIPS (SINGLE / LOOP), DRUMS (their own kit, MIDI ch 10, rolls by pressure), LIVE 1 = PERFORM (14 effects), LIVE 2 (mutes 1–4, MUTE ALL, RESTART, CLEAR TRACK, LOOP REC, UNDO, REDO, MOD wheel's job, A VOL, loop 1/2, next knob page; REC switches LIVE 1 ↔ 2), SCENES (scenes, mutes, MUTE ALL, A VOL), MIDI (channel 16) | PERFORM, SCENES, mutes, MUTE ALL, A VOL, and LIVE 2's other gestures: the same on the keys and buttons (SEL, HOME, EDIT, ENV / LFO, FX). **CLIPS, the MIDI pads, the pad rolls, LIVE 2's one-pad layout, its MOD and 1/2 have no FM-1 equivalent** |
 | 4 faders | levels, macros, USER slots (FADER BANK) | the knobs (LIVE / MACRO pages, MAP CONTROL) |
 | pitch wheel, mod wheel | BEND or PAN, MORPH (mappable) | — |
 | sustain pedal | holds the notes | — |

diff --git a/CHANGELOG.md b/CHANGELOG.md
@@ -1,5 +1,12 @@
 # Changelog
 
+## 26 November 2026 — LIVE 2 reworked; the pads' map after a change of mode
+
+- LIVE 2: TAP and the scene pads gone; MOD (what the mod wheel does, in turn: MORPH, FILTER, DELAY, CRUSH, DRIVE, PAN of
+  the selected track, the pad in its colour), A VOL, 1/2 (the loop half as long), PAGE (the knobs' next page, in its
+  colour). Colours: mutes green, MUTE ALL pink, CLEAR TRACK white, LOOP REC red (blinking while armed, mint held).
+- Titles "LIVE 1 LOOP" / "LIVE 2 MUTE"; a mode taken shows its pads' map 4 s, or until anything is touched.
+
 ## 26 November 2026 — the firmware update gets its RAM back
 
 - The MIDI update stopped after 9 requests (the SDK's heap at 54.6 KB): the tracks' delay buffers are 1024 samples
